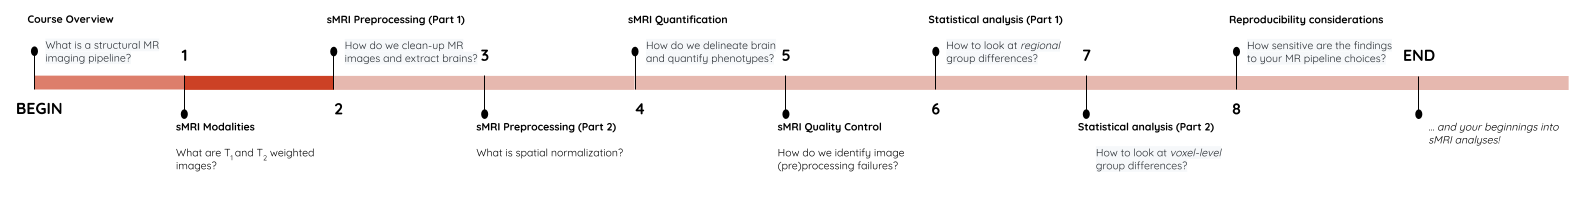
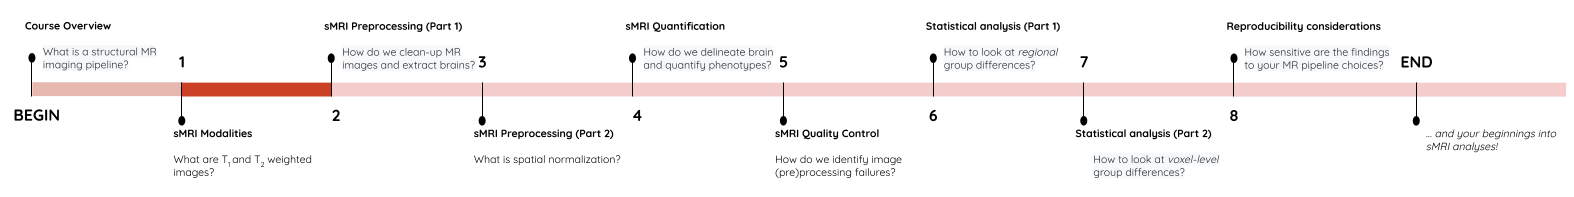
started episode_2

diff --git a/episodes/02-Image_Preproc_Part1.md b/episodes/02-Image_Preproc_Part1.md
@@ -11,7 +11,41 @@ objectives:
 keypoints:
 - "Presence of artifacts can lead to flawed analsis and incorrect findings"
 ---
-FIXME
+## You Are Here!
+![course_flow](../fig/episode_2/Course_flow_2.png)
 
+## Image Clean-ups
+### Intensity normalization (a.k.a bias field correction; a.k.a. intensity inhomogeneity correction)
+
+- The bias field is a low-frequency spatially varying MRI artifact resulting from spatial inhomogeneity of the magnetic field,
+variations in the sensitivity of the reception coil, and the interaction between the magnetic field and the human body. 
+- It causes a smooth signal intensity variation within tissue of the same physical properties. 
+- The bias field is dependent on the strength of the magnetic field. If it is not corrected for 1.5T or higher MR scanners, it can considerably affect downstram analyses. 
+- Commonly used tools
+    - [ANTs N4 bias correction](https://pubmed.ncbi.nlm.nih.gov/20378467/) (See figure below)
+    - [FSL FAST](https://fsl.fmrib.ox.ac.uk/fsl/fslwiki/FAST) (_Note:FSL FAST is a multi-purpose segmentation tool that includes the bias field correction._)
+
+ANTs N4 correction
+![N4_bias](../fig/episode_2/N4_bias.jpeg)
+
+Impact of correction:
+![bias_correction](../fig/episode_2/Despotovic_bias_correction.png)
+
+
+### Brain extraction (a.k.a skull-stripping)
+- Image contrasts from nonbrain tissues such as fat, skull, or neck can cause issues with downstream analyses starting with brain tissue segmentation.
+- The brain extraction generates a mask that identifies brain voxels comprising grey-matter (GM), white-matter(WM), and Cerebrospinal fluid (CSF) of
+the cerebral cortex and subcortical structures, including the brain stem and cerebellum. 
+- The scalp, dura matter, fat, skin, muscles, eyes, and bones are classified as nonbrain voxels.
+
+- Commonly used tools
+    - [antsBrainExtraction](https://nipype.readthedocs.io/en/latest/api/generated/nipype.interfaces.ants.html#brainextraction)
+    - [FSL brain extraction tool (BET)](https://fsl.fmrib.ox.ac.uk/fsl/fslwiki/BET)
+
+ANTs Brain Extraction
+![ANTs_brain_extract](../fig/episode_2/brainextraction_t1.jpeg)
+
+FSL BET 
+![FSL_brain_extract](../fig/episode_2/bet2_eg_small.jpeg)
 {% include links.md %}
 
